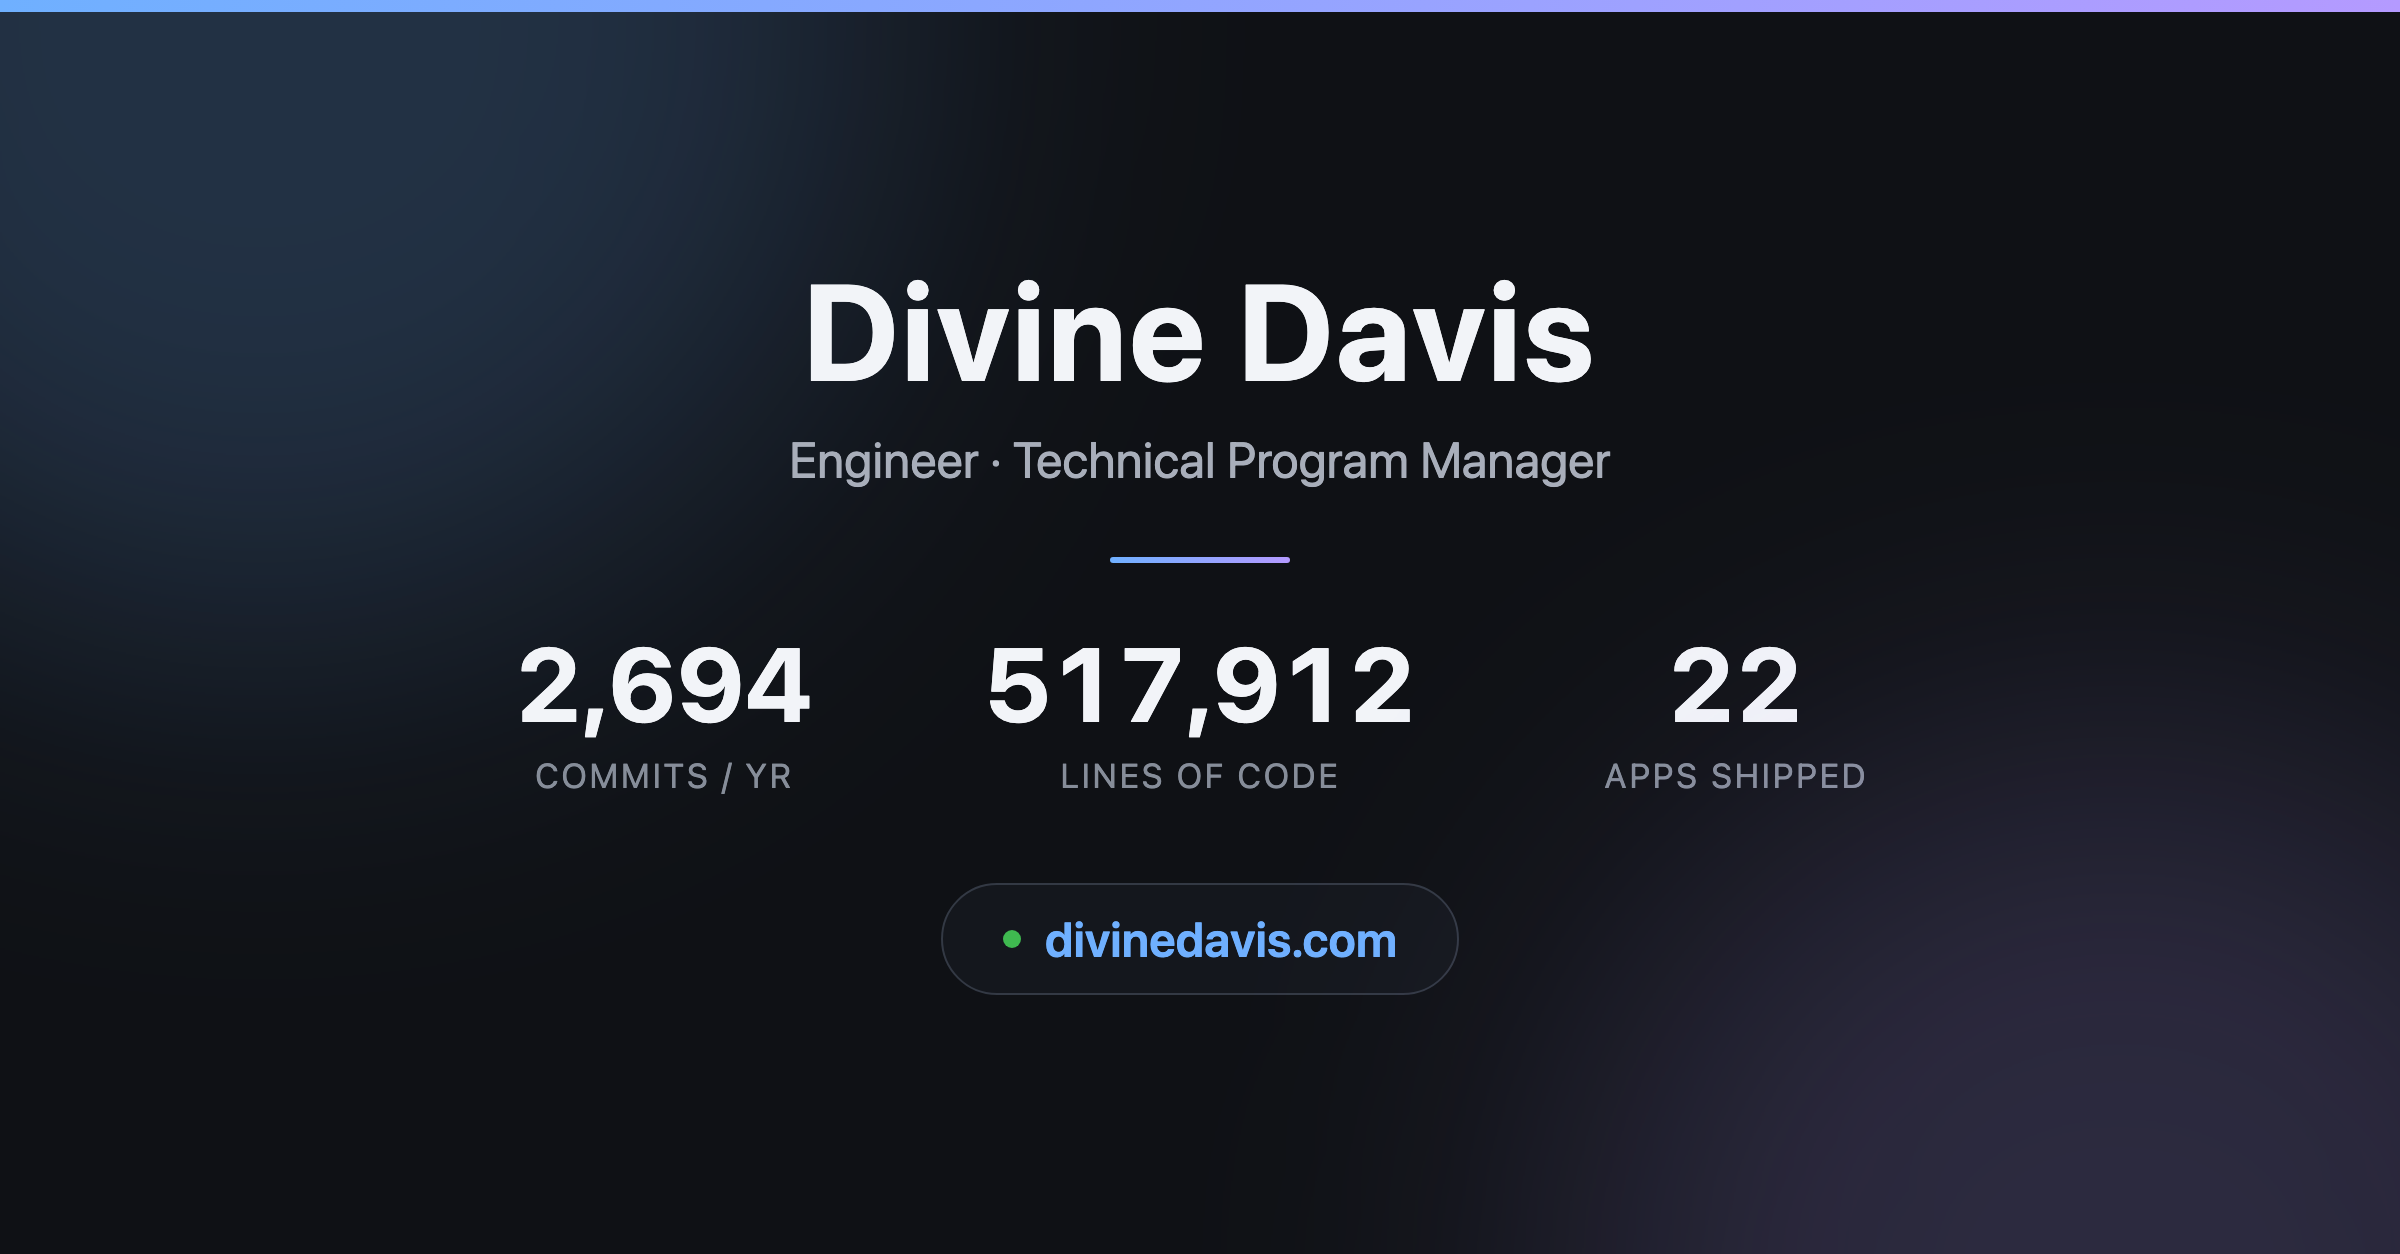
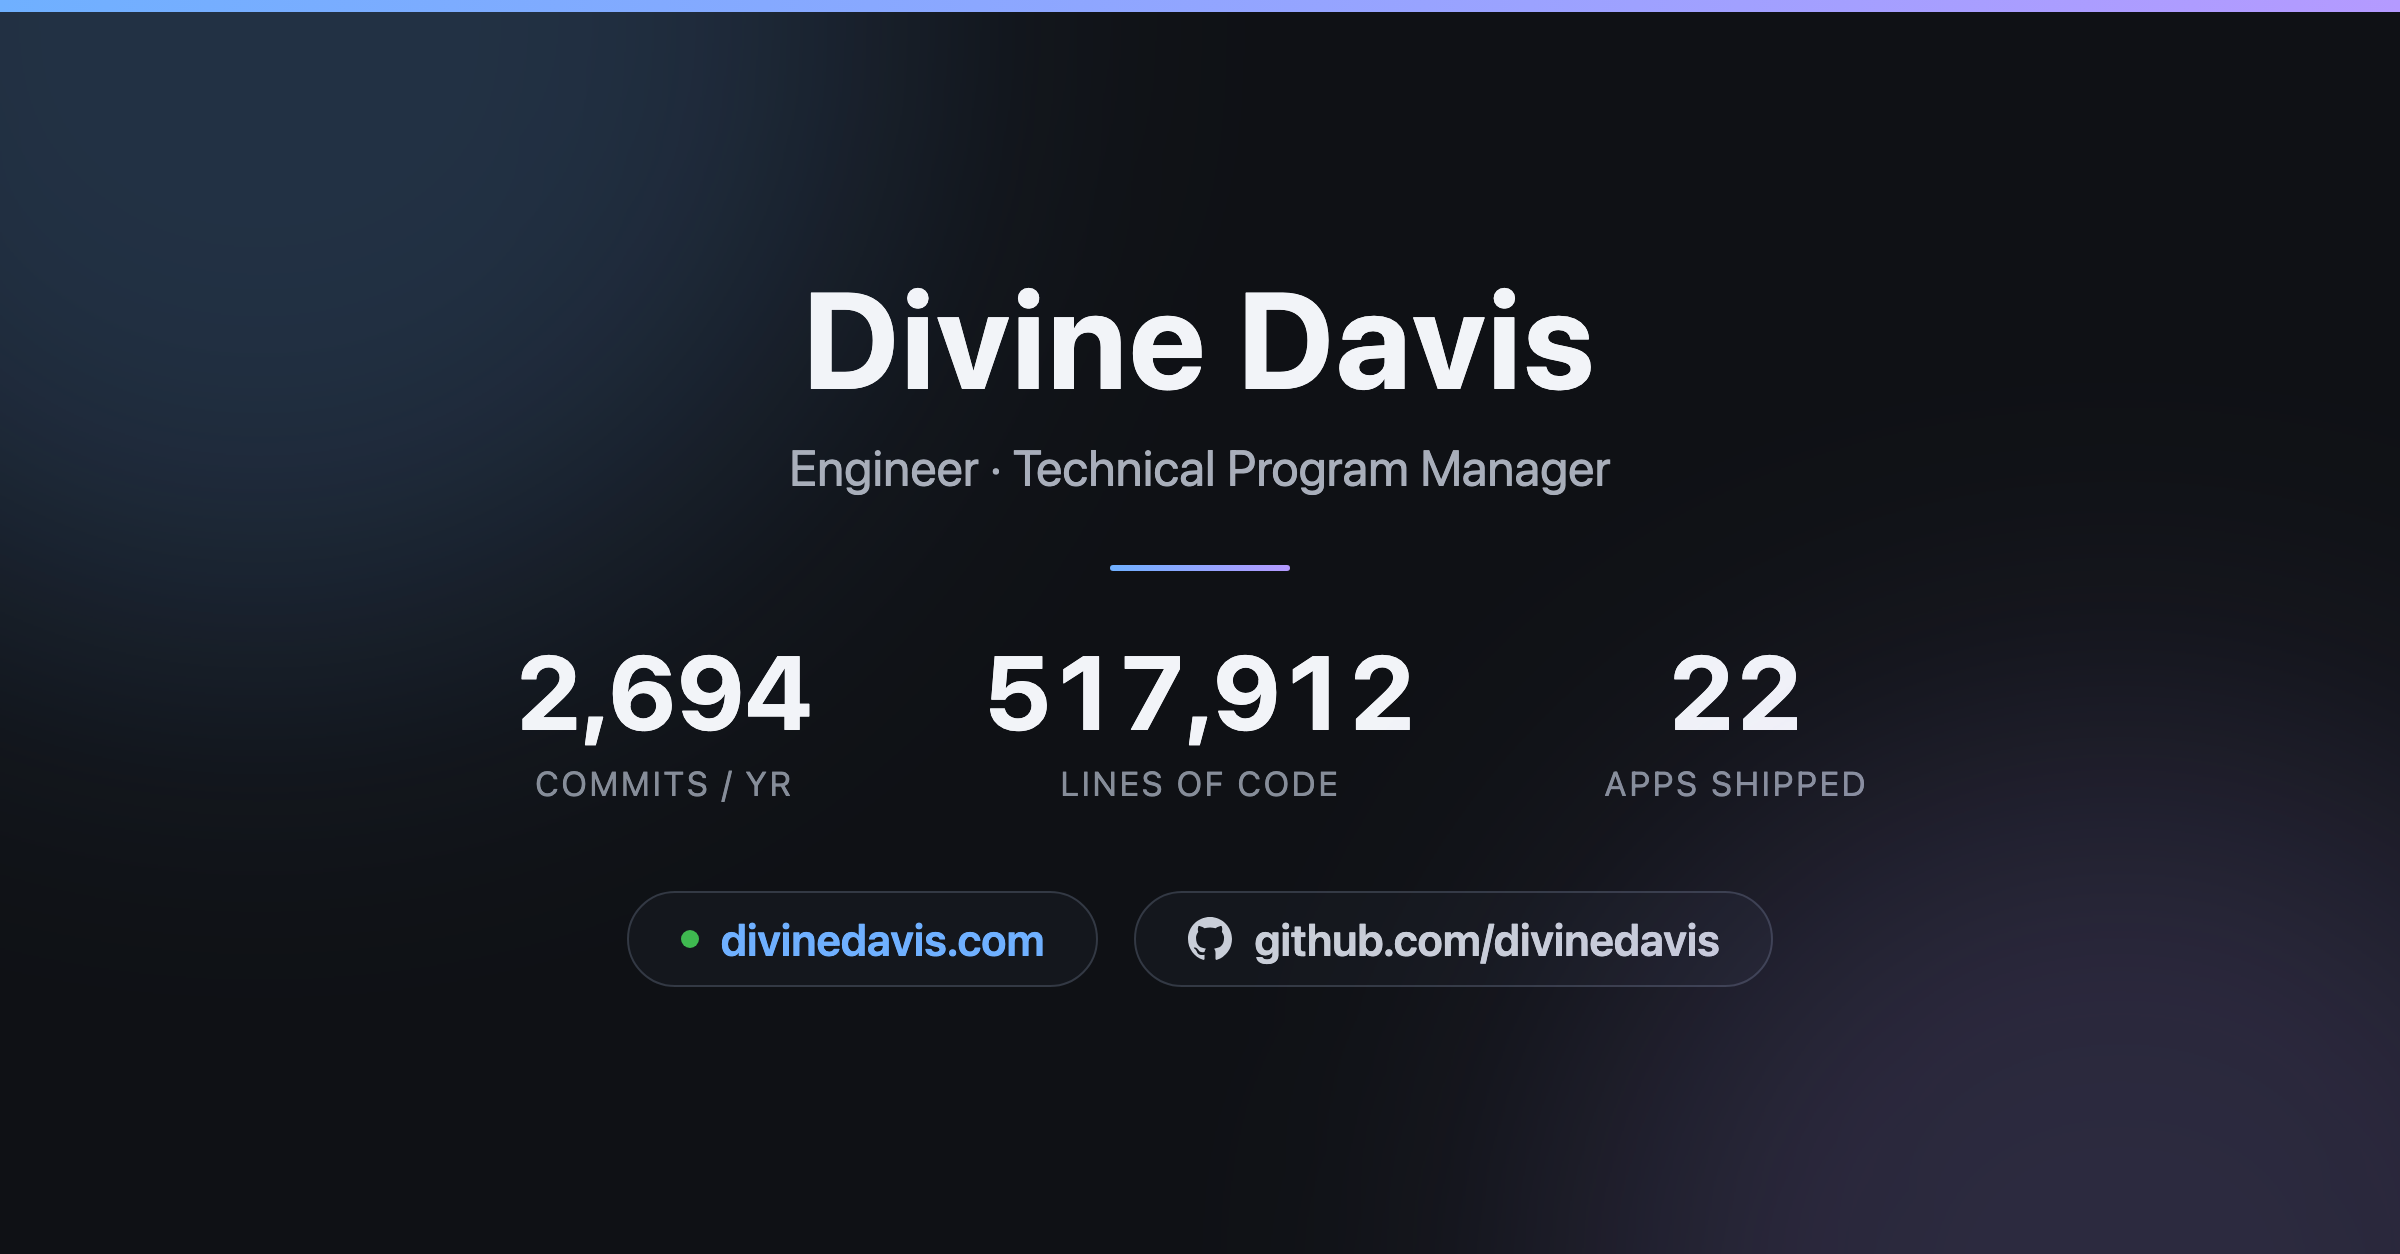
Cite GitHub on the thumbnail
A stats card that cites nothing is just a claim. The commits/yr figure comes
from github.com/divinedavis — the handle github.json already reports as the
profile — so the card now names it next to the site.

Two pills instead of one, still inside the crop-safe centre 840px: the site
is the destination, the handle is the receipt. GitHub's mark is inlined as
SVG because Chrome screenshots this file from disk and a remote <img> would
render as a broken box.

XCUITest review: N/A, no iOS surface.
OWASP LLM review: N/A, no model call in this change.
Secrets review: no credentials; both URLs are already public.

diff --git a/tools/thumbnail.html b/tools/thumbnail.html
@@ -113,25 +113,43 @@
         color: #868d99;
     }
 
-    .domain {
+    /* Two pills, not one. The site is the destination and the GitHub handle is
+       the receipt for the numbers above it — a stats card that cites nothing
+       is just a claim. */
+    .links {
         margin-top: 44px;
+        display: flex;
+        justify-content: center;
+        gap: 18px;
+    }
+
+    .pill {
         display: inline-flex;
         align-items: center;
-        gap: 12px;
-        padding: 13px 30px;
+        gap: 11px;
+        padding: 12px 26px;
         border: 1px solid #333944;
         border-radius: 999px;
         background: rgba(23, 26, 33, 0.7);
-        font-size: 24px;
+        font-size: 22px;
         font-weight: 600;
-        color: #6fb0ff;
+        line-height: 1;
     }
 
-    .domain .dot {
+    .pill-site { color: #6fb0ff; }
+    .pill-gh   { color: #c9ced8; }
+
+    .pill .dot {
         width: 9px;
         height: 9px;
         border-radius: 50%;
         background: #3fb950;
+    }
+
+    .pill svg {
+        width: 22px;
+        height: 22px;
+        fill: #c9ced8;
     }
 </style>
 </head>
@@ -159,7 +177,15 @@
             </div>
         </div>
 
-        <div class="domain"><span class="dot"></span>divinedavis.com</div>
+        <div class="links">
+            <div class="pill pill-site"><span class="dot"></span>divinedavis.com</div>
+            <!-- GitHub's official mark, inlined. A remote <img> would render as
+                 a broken box: Chrome screenshots this file from disk. -->
+            <div class="pill pill-gh">
+                <svg viewBox="0 0 16 16" aria-hidden="true"><path d="M8 0C3.58 0 0 3.58 0 8c0 3.54 2.29 6.53 5.47 7.59.4.07.55-.17.55-.38 0-.19-.01-.82-.01-1.49-2.01.37-2.53-.49-2.69-.94-.09-.23-.48-.94-.82-1.13-.28-.15-.68-.52-.01-.53.63-.01 1.08.58 1.23.82.72 1.21 1.87.87 2.33.66.07-.52.28-.87.51-1.07-1.78-.2-3.64-.89-3.64-3.95 0-.87.31-1.59.82-2.15-.08-.2-.36-1.02.08-2.12 0 0 .67-.21 2.2.82.64-.18 1.32-.27 2-.27s1.36.09 2 .27c1.53-1.04 2.2-.82 2.2-.82.44 1.1.16 1.92.08 2.12.51.56.82 1.27.82 2.15 0 3.07-1.87 3.75-3.65 3.95.29.25.54.73.54 1.48 0 1.07-.01 1.93-.01 2.2 0 .21.15.46.55.38A8.013 8.013 0 0 0 16 8c0-4.42-3.58-8-8-8Z"/></svg>
+                github.com/divinedavis
+            </div>
+        </div>
     </div>
 </body>
 </html>
